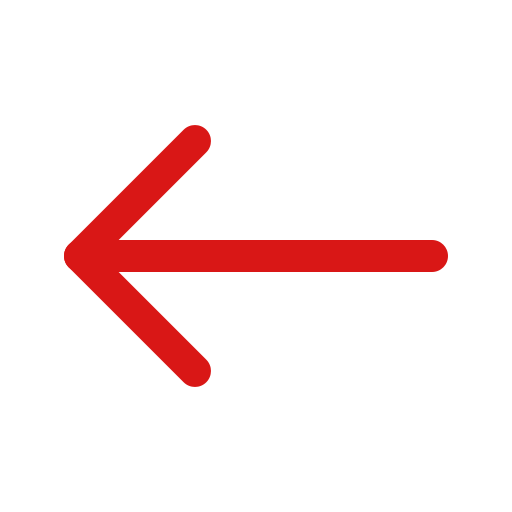
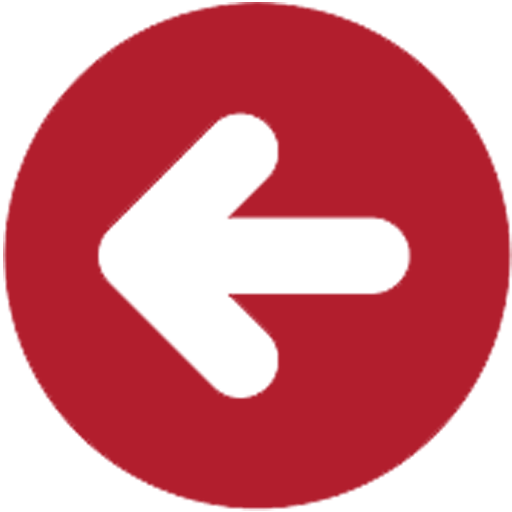
more styling changes

diff --git a/src/App.tsx b/src/App.tsx
@@ -6,7 +6,6 @@ import AdminView from './AdminView'; // Admin view component
 import UserProfile from './UserProfile'; // User profile component 
 import { AuthProvider, useAuth } from './AuthContext'; // Adjust the path as necessary
 import { useNavigate } from 'react-router-dom';
-import UserLogin from './User-Login';
 
 function App() {
   return (
@@ -27,9 +26,6 @@ function App() {
 
           {/* Route for the user profile page */}
           <Route path='/user-profile' element={<UserProfile />} />
-
-	  {/* Route for the User Login */}
-          <Route path="/User-Login" element={<UserLogin />} />
 
         </Routes>
       </Router>

diff --git a/src/components/footer/footer.css b/src/components/footer/footer.css
@@ -1,10 +1,12 @@
-.footer{
-    width: 100vw;
-    height: 4rem;
-    background: rgb(40,40,40);
-    display: flex;
-    align-items: center;
-    justify-content: center;
-    font-weight: 300;
-    font-size: small;
+.footer {
+    position: absolute;
+    bottom: 0;
+    width: 100%;
+    height: 60px; /* Height of the footer */
+    background: rgb(179, 26, 27);
+    color: white;
+    display: flex; /* Use flexbox for centering */
+    justify-content: center; /* Horizontally center */
+    align-items: center; /* Vertically center */
+    text-align: center; /* Maintain existing text alignment */
 }

diff --git a/src/UserProfile.css b/src/UserProfile.css
@@ -251,7 +251,17 @@ select, /* Added select to match the styling */
 }
 
 .back-arrow {
-    width: 16px;
-    height: 16px;
+    width: 18px;
+    height: 18px;
     margin-right: 8px;
+    transition-duration: 0.4s
+}
+
+.back-arrow:hover > .overlay {
+    width:100%;
+    height:100%;
+    position:absolute;
+    background-color:#000;
+    opacity:0.5;
+    border-radius:30px;
 }

diff --git a/src/UserProfile.tsx b/src/UserProfile.tsx
@@ -5,6 +5,7 @@ import saveIcon from './assets/save-icon.png';
 import arrowIcon from './assets/arrow-icon.png'
 import CreatableSelect from 'react-select/creatable';
 import Select from 'react-select';
+import Footer from './components/footer/footer';
 
 const UserProfile: React.FC = () => {
   const [isEditing, setIsEditing] = useState(false);

diff --git a/src/components/footer/footer.tsx b/src/components/footer/footer.tsx
@@ -4,7 +4,8 @@ import './footer.css'
 const Footer = () => {
   return (
     <footer className='footer'>
-        Copyright © 2024 Marist - All Rights Reserved.
+        Copyright © 2024 Marist - All Rights Reserved.<br />
+        Made by Team Ctrl+Alt+Defeat
     </footer>
   )
 }
